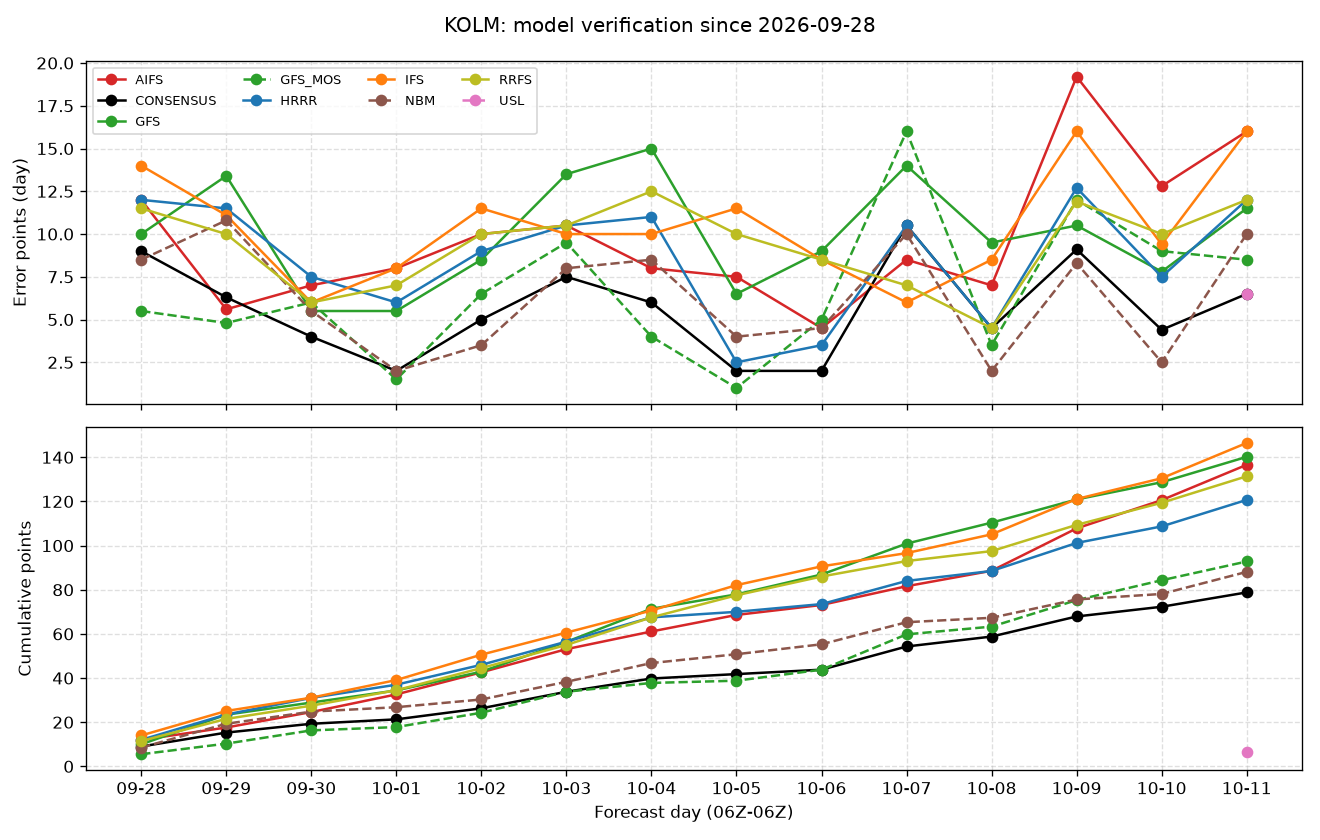
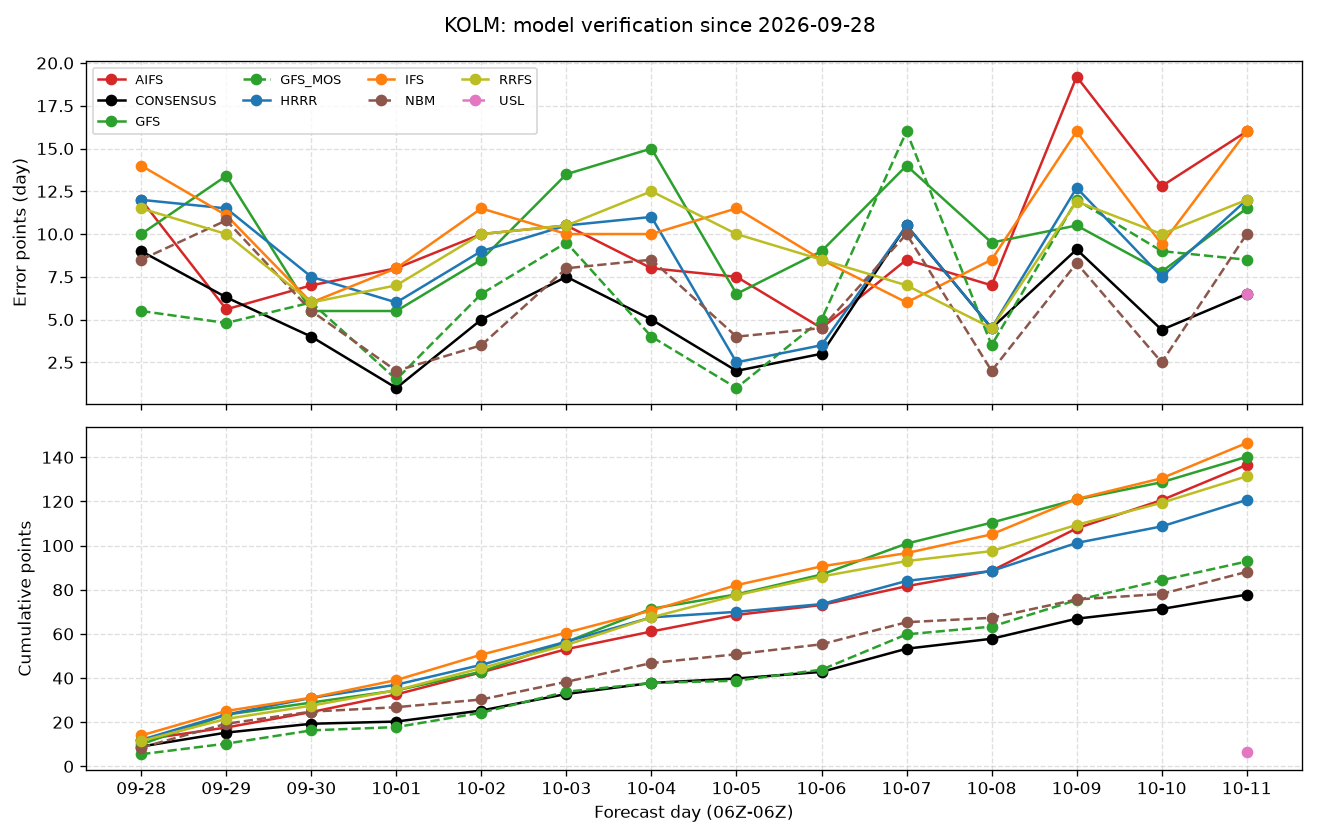
update wxchallenge: 2026-10-12T20:30:09+00:00

diff --git a/weather-forecasts/wxchallenge/index.html b/weather-forecasts/wxchallenge/index.html
@@ -1016,7 +1016,8 @@ function renderToday(tj){
       const scored = !/equal-weight/.test(cm.method);
       let txt = scored
         ? 'Consensus: a skill-weighted average of the models above. Each model\'s typical error this ' +
-          'period is partly taken out (more as scored days add up: 2 days 40%, 5 days 62%, 14 days 82%), ' +
+          'period is partly taken out (more as scored days add up: 2 days 40%, 5 days 62%, 14 days 82%; ' +
+          'lows, whose errors tend to persist, faster: 2 days 67%, 14 days 93%), ' +
           'and models that have been closer to the observations count more. Recent days count somewhat ' +
           'more than older ones, so the blend adapts without a few bad days undoing weeks of record.'
         : 'Consensus: a plain average of the models above (no scored days yet at this city).';

diff --git a/weather-forecasts/data/wxchallenge/brief.md b/weather-forecasts/data/wxchallenge/brief.md
@@ -3,7 +3,7 @@
 - Station: **KOLM**
 - Target day: **2026-10-13**, scored over 2026-10-13T06Z to 2026-10-14T06Z (UTC, 06Z to 06Z)
 - Submission deadline: 2026-10-13T00Z (forecasts for a day are due at 00Z that day)
-- Generated: 2026-10-12T20:00:09+00:00 (refreshed several times an hour while the forecast job runs)
+- Generated: 2026-10-12T20:30:09+00:00 (refreshed several times an hour while the forecast job runs)
 - Units: temperature °F, wind kt (max sustained), precipitation inches (liquid)
 
 ## How to use this brief (for AI assistants)
@@ -29,7 +29,7 @@ Run = day/hour (UTC) of the model initialization.
 | Model | Run | High °F | Low °F | Wind kt | Precip in |
 | --- | --- | --: | --: | --: | --: |
 | HRRR | 12/18Z | 63.6 | 39.1 | 4.8 | 0.00 |
-| RRFS | 12/12Z | 63.9 | 39.3 | 4.6 | 0.00 |
+| RRFS | 12/18Z | 59.2 | 40.5 | 4.9 | 0.01 |
 | IFS | 12/12Z | 59.9 | 40.9 | 3.3 | 0.00 |
 | GFS | 12/12Z | 56.9 | 41.9 | 3.7 | 0.00 |
 | AIFS | 12/12Z | 60.5 | 39.7 | 2.7 | 0.00 |
@@ -40,9 +40,9 @@ Run = day/hour (UTC) of the model initialization.
 | AIFS_ENS | 10/18Z | 61.1 | 43.0 | 4.1 | 0.01 |
 | GEFS | 12/12Z | 56.9 | 43.2 | 4.0 | 0.00 |
 | HRRRCAST (precip only) | 12/12Z | — | — | — | 0.00 |
-| REFS (precip only) | 12/12Z | — | — | — | 0.00 |
+| REFS (precip only) | 12/18Z | — | — | — | 0.00 |
 | NBM_QMD (precip only) | 12/12Z | — | — | — | 0.00 |
-| **CONSENSUS** |  | **61.1** | **36.6** | **7.3** | **0.00** |
+| **CONSENSUS** |  | **60.4** | **36.4** | **7.4** | **0.00** |
 
 Notes:
 - AIFS: 6-hourly output: high/low likely underdone
@@ -52,14 +52,16 @@ Notes:
 - AIFS_ENS: ensemble mean of 51 members (Open-Meteo)
 - GEFS: ensemble mean of 31 members (Open-Meteo); not in the consensus
 - HRRRCAST: median of 18 members (experimental AI model)
-- REFS: median of 14 members, 12Z + 06Z runs (RRFS para)
+- REFS: median of 14 members, 18Z + 12Z runs (RRFS para)
 - NBM_QMD: calibrated PoP and percentiles (NBM QMD); precip = 50% level
 
 GEFS is shown but not used in the consensus. Precip-only ensembles (REFS, HRRRCAST) and NBM QMD are not in the consensus either; they inform the precip choice.
 
 ## Consensus method
 
-- bias-corrected (n_eff/(n_eff+3) of each model's decay-weighted mean error), 1/(MAE+0.5) weighted. Precip is weighted but not bias-corrected.
+- High, Wind, Precip: bias-corrected (n_eff/(n_eff+3) of each model's decay-weighted mean error), 1/(MAE+0.5) weighted.
+- Low: bias-corrected (n_eff/(n_eff+1) of each model's decay-weighted mean error), 1/(MAE+0.5) weighted.
+- Precip is weighted but not bias-corrected.
 
 - High °F weights: NBM 0.19, RRFS 0.15, AIFS 0.12, GFS_MOS 0.12, USL 0.12, HRRR 0.11, IFS 0.10, GFS 0.09 (no track record yet: USL) (stale runs excluded: ENS, AIFS_ENS)
 - Low °F weights: GFS_MOS 0.17, NBM 0.17, HRRR 0.12, GFS 0.12, USL 0.12, AIFS 0.10, IFS 0.10, RRFS 0.09 (no track record yet: USL) (stale runs excluded: ENS, AIFS_ENS)
@@ -83,7 +85,7 @@ GEFS is shown but not used in the consensus. Precip-only ensembles (REFS, HRRRCA
 | GEFS | 31 | Wind kt | 3.3 | 3.5 | 3.9 | 4.3 | 4.6 | 4.0 |
 | GEFS | 31 | Precip in | 0.00 | 0.00 | 0.00 | 0.00 | 0.00 | 0.00 |
 | HRRRCAST | 18 | Precip in | 0.00 | 0.00 | 0.00 | 0.01 | 0.01 | 0.01 |
-| REFS | 14 | Precip in | 0.00 | 0.00 | 0.00 | 0.00 | 0.00 | 0.00 |
+| REFS | 14 | Precip in | 0.00 | 0.00 | 0.00 | 0.00 | 0.01 | 0.00 |
 
 Share of members reaching each 24-h precip amount:
 
@@ -118,7 +120,7 @@ Since 2026-09-28 at KOLM (forecast - observed, so negative bias = too cold / too
 
 | Model | Days | Pts/day | Bias high | Bias low | Bias wind | Bias precip | MAE high | MAE low | MAE wind | MAE precip |
 | --- | --: | --: | --: | --: | --: | --: | --: | --: | --: | --: |
-| CONSENSUS | 14 | 5.6 | +0.1 | +1.9 | -1.3 | +0.01 | 1.1 | 3.2 | 2.4 | 0.01 |
+| CONSENSUS | 14 | 5.6 | +0.1 | +1.7 | -1.3 | +0.01 | 1.1 | 3.1 | 2.4 | 0.01 |
 | NBM | 14 | 6.3 | +0.6 | +1.7 | -3.1 | -0.01 | 0.9 | 3.1 | 3.8 | 0.01 |
 | USL | 1 | 6.5 | +0.0 | +6.0 | -1.0 | +0.00 | 0.0 | 6.0 | 1.0 | 0.00 |
 | GFS_MOS | 14 | 6.6 | +1.0 | +1.4 | -3.8 | +0.01 | 1.8 | 3.0 | 4.0 | 0.01 |
@@ -139,12 +141,12 @@ Error points (lower is better):
 | 09-28 h | 12.0 | 11.5 | 14.0 | 10.0 | 12.0 | 5.5 | 8.5 | — | 9.0 | GFS_MOS |
 | 09-29 h | 11.5 | 10.0 | 11.1 | 13.4 | 5.6 | 4.8 | 10.8 | — | 6.3 | GFS_MOS |
 | 09-30 h | 7.5 | 6.0 | 6.0 | 5.5 | 7.0 | 6.0 | 5.5 | — | 4.0 | CONSENSUS |
-| 10-01 h | 6.0 | 7.0 | 8.0 | 5.5 | 8.0 | 1.5 | 2.0 | — | 2.0 | GFS_MOS |
+| 10-01 h | 6.0 | 7.0 | 8.0 | 5.5 | 8.0 | 1.5 | 2.0 | — | 1.0 | CONSENSUS |
 | 10-02 h | 9.0 | 10.0 | 11.5 | 8.5 | 10.0 | 6.5 | 3.5 | — | 5.0 | NBM |
 | 10-03 h | 10.5 | 10.5 | 10.0 | 13.5 | 10.5 | 9.5 | 8.0 | — | 7.5 | CONSENSUS |
-| 10-04 h | 11.0 | 12.5 | 10.0 | 15.0 | 8.0 | 4.0 | 8.5 | — | 6.0 | GFS_MOS |
+| 10-04 h | 11.0 | 12.5 | 10.0 | 15.0 | 8.0 | 4.0 | 8.5 | — | 5.0 | GFS_MOS |
 | 10-05 h | 2.5 | 10.0 | 11.5 | 6.5 | 7.5 | 1.0 | 4.0 | — | 2.0 | GFS_MOS |
-| 10-06 h | 3.5 | 8.5 | 8.5 | 9.0 | 4.5 | 5.0 | 4.5 | — | 2.0 | CONSENSUS |
+| 10-06 h | 3.5 | 8.5 | 8.5 | 9.0 | 4.5 | 5.0 | 4.5 | — | 3.0 | CONSENSUS |
 | 10-07 h | 10.5 | 7.0 | 6.0 | 14.0 | 8.5 | 16.0 | 10.0 | — | 10.5 | IFS |
 | 10-08 h | 4.5 | 4.5 | 8.5 | 9.5 | 7.0 | 3.5 | 2.0 | — | 4.5 | NBM |
 | 10-09 h | 12.7 | 11.9 | 16.0 | 10.5 | 19.2 | 12.0 | 8.3 | — | 9.1 | NBM |
@@ -177,12 +179,12 @@ Low °F: observed (~ = still preliminary) and each model's error (forecast - obs
 | 09-28 h | 34 | +9 | +9 | +10 | +7 | +6 | +3 | +5 | — | +7 |
 | 09-29 h | 55 | -4 | -2 | -3 | -5 | -2 | +0 | -5 | — | -3 |
 | 09-30 h | 47 | -1 | +2 | +1 | +0 | +2 | +2 | -2 | — | +0 |
-| 10-01 h | 43 | +4 | +5 | +3 | +4 | +4 | +0 | +0 | — | +2 |
+| 10-01 h | 43 | +4 | +5 | +3 | +4 | +4 | +0 | +0 | — | +1 |
 | 10-02 h | 46 | +4 | +6 | +5 | +4 | +4 | +2 | +0 | — | +2 |
 | 10-03 h | 46 | +5 | +7 | +6 | +5 | +6 | +1 | +4 | — | +3 |
-| 10-04 h | 43 | +4 | +8 | +7 | +7 | +5 | +1 | +4 | — | +3 |
+| 10-04 h | 43 | +4 | +8 | +7 | +7 | +5 | +1 | +4 | — | +2 |
 | 10-05 h | 46 | +1 | +8 | +6 | +4 | +3 | -1 | +2 | — | +0 |
-| 10-06 h | 48 | +1 | +6 | +3 | +2 | +2 | -1 | +1 | — | +0 |
+| 10-06 h | 48 | +1 | +6 | +3 | +2 | +2 | -1 | +1 | — | -1 |
 | 10-07 h | 50 | -3 | +3 | +1 | -3 | -3 | -8 | -5 | — | -6 |
 | 10-08 h | 43 | +2 | +4 | +6 | +5 | +4 | +0 | +0 | — | +1 |
 | 10-09 h | 40 | +8 | +8 | +8 | +4 | +8 | +5 | +5 | — | +5 |
